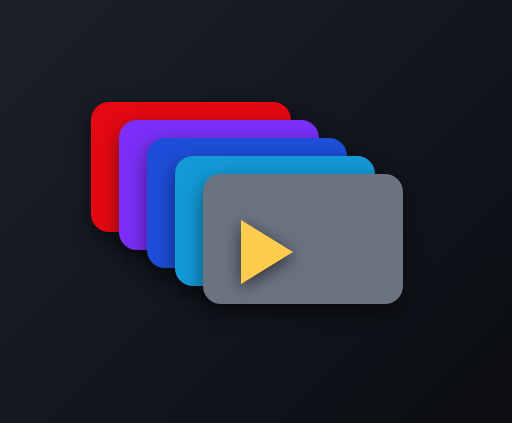
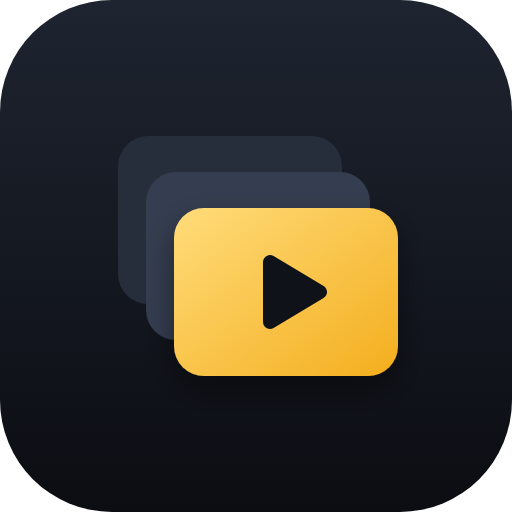
Nová ikona aplikace (verze 1.28.0, APK 1.2)
Claude-Session: https://claude.ai/code/session_015jCRZQW2ZYSDQPLovaErKS

diff --git a/js/version.js b/js/version.js
@@ -1,2 +1,2 @@
 // Verze aplikace přibalená v instalaci. Při změně zvyš i version.json v kořeni repozitáře.
-window.PROMITARNA_BUNDLED = '1.27.0';
+window.PROMITARNA_BUNDLED = '1.28.0';
